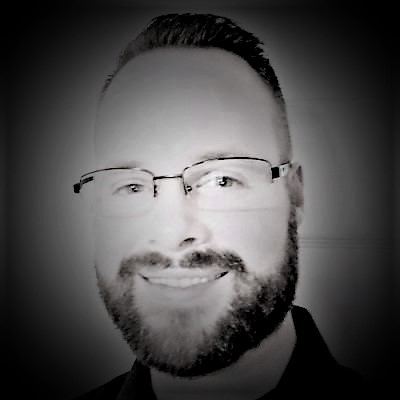
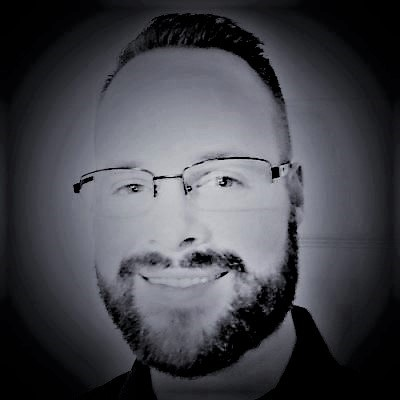
images update

diff --git a/index.html b/index.html
@@ -32,7 +32,7 @@
 <section id="about" class="about">
   <h1>Jesse Moore</h1>
    <h3>Technology Professional</h3>
-    <img src="images\me.jpg"></img>
+    <img src="images\me2.jpg"></img>
      <p>My name is Jesse Moore and I am a highly professional and motivated individual who excels at overcoming challenges in a team environment. I strive to bring value to a company with leadership and a positive attitude. Currently, I am attending Tarrant County College to obtain my Associate's Degree in Information Technology: Web Applications Programming. I have always had a passion for Computer Science and Information Technology, and my goal is to have a career in one of these fields as I transition from the logistics industry. Academically, I have obtained my CompTIA ITF+ certification, my CompTIA A+ certification, and will be obtaining my CompTIA Network+ and Security+ as well. I have experience in programming with a focus on front-end web development and have obtained a developer's certificate in Responsive Reb Design using HTML5, CSS3, and JavaScript. I also have experience with the programming language Python and I have built many Windows console programs in C++. I am highly proficient in Microsoft Windows OS including troubleshooting, repairing, maintaining, and networking Windows machines. This includes installing and upgrading hardware, clean OS installs and in-place upgrades, windows network configuration, and security strategies. I also have experience with Windows Server including promoting servers to domain controllers, AD DS, adding roles and features, managing multiple users/computers accounts, and remote desktop connections. My networking skills include building and configuring LANs, TCP/IP protocols, IPV4/IPV6 dynamic and static configurations, and installing and configuring routers, switches, and WAP's. I am skilled in Microsoft Office with level 2 certificates in Word, Excel, Access, and PowerPoint. I have previous work experience in construction, sales, and customer service. I also have extensive experience in a logistics environment specializing in shipping/receiving, clerical, data entry, and inventory control processes.</p>
 </section>
 

diff --git a/css/style5.css b/css/style5.css
@@ -97,7 +97,7 @@ nav a:hover::before {
 
 .contact {
 margin-top: 100px;
-margin-bottom: 50px;
+margin-bottom: 100px;
 color: LightCyan;
 text-align: center;
 }
@@ -125,7 +125,7 @@ text-align: center;
 }
 
 .link-img {
-  background-color: white;
+  background-color: LightCyan;
   width: 125px;
   height: 125px;
   margin: 50px 50px;
